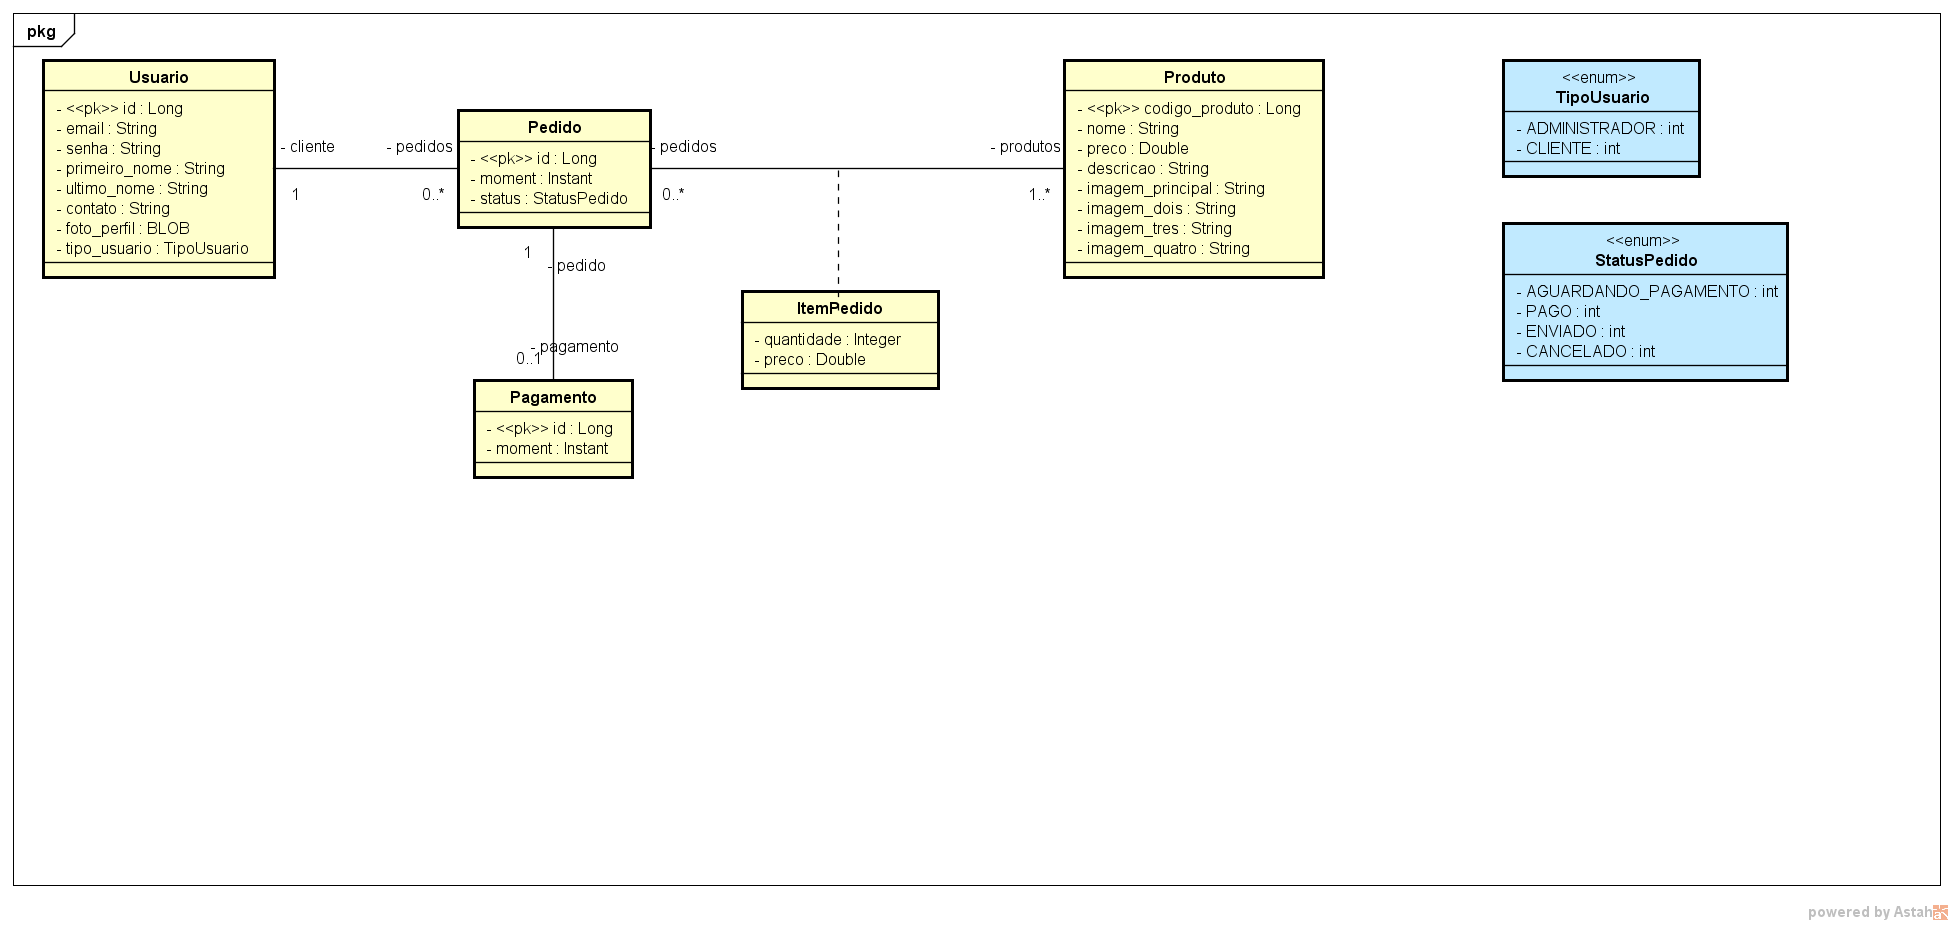
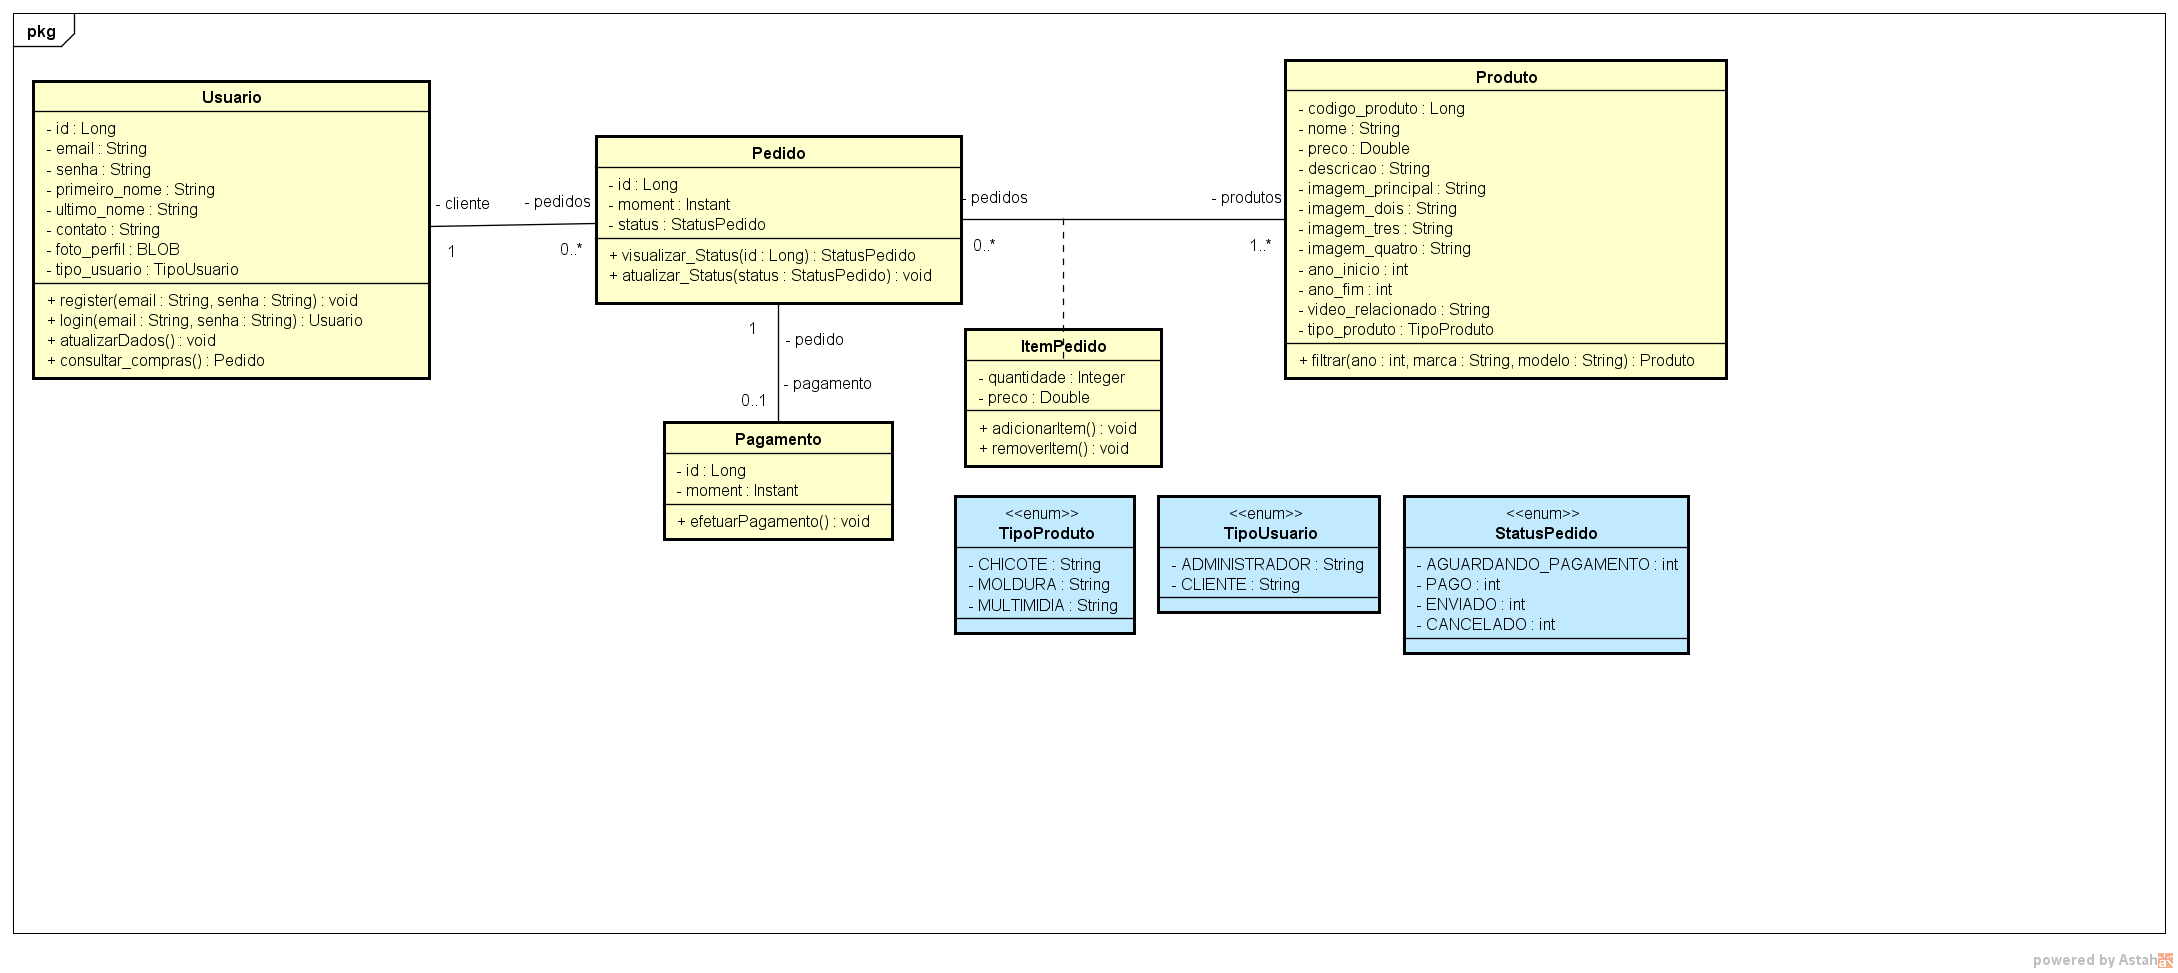
UPDATE metodos Diagrama de Classe | UPDATE tabela produtos  #49

Changed region(s): [[0.0, 0.0, 0.937, 0.6962], [0.937, 0.9686, 0.9995, 0.9989]]

diff --git a/Codigo/back-end/depinhomultimidias/src/main/java/com/depinhomultimidias/depinhomultimidias/infra/security/SecurityConfigurations.java b/Codigo/back-end/depinhomultimidias/src/main/java/com/depinhomultimidias/depinhomultimidias/infra/security/SecurityConfigurations.java
@@ -9,59 +9,42 @@ import org.springframework.security.config.annotation.authentication.configurati
 import org.springframework.security.config.annotation.web.builders.HttpSecurity;
 import org.springframework.security.config.annotation.web.configuration.EnableWebSecurity;
 import org.springframework.security.config.http.SessionCreationPolicy;
-import org.springframework.security.web.SecurityFilterChain;
-import org.springframework.security.web.authentication.UsernamePasswordAuthenticationFilter;
 import org.springframework.security.crypto.bcrypt.BCryptPasswordEncoder;
 import org.springframework.security.crypto.password.PasswordEncoder;
+import org.springframework.security.web.SecurityFilterChain;
+import org.springframework.security.web.authentication.UsernamePasswordAuthenticationFilter;
 
-
-@Configuration // Esta anotação informa ao Spring Security que esta é uma classe de configurações.
-@EnableWebSecurity // Esta anotação habilita a configuração do WebSecurity para que possamos configurar nesta classe.
+@Configuration
+@EnableWebSecurity
 public class SecurityConfigurations {
-
     @Autowired
     SecurityFilter securityFilter;
-    
-    @Bean
-    // Este método cria uma corrente de filtros para validar os usuários aptos a fazer esta requisição.
-    public SecurityFilterChain securityFilterChain(HttpSecurity httpSecurity) throws Exception{
-        
-         // Configuração para desabilitar a proteção CSRF (Cross-Site Request Forgery) para a aplicação.
-        // CSRF é um tipo de ataque onde um usuário mal-intencionado pode induzir um usuário autenticado a executar ações não intencionadas.
-        // Desabilitar CSRF é comum em APIs RESTful, onde os clientes não têm uma sessão estabelecida.
-        // Também desabilitamos CSRF porque estamos utilizando STATELESS, ou seja, não mantemos estado de sessão no servidor.
-        return httpSecurity.csrf(csrf -> csrf.disable())
-        
-        // Configuração para gerenciamento de sessão, definindo a política de criação de sessão como STATELESS.
-        // Com STATELESS, o servidor não mantém estado da sessão do usuário. Isso é útil para APIs RESTful, onde cada requisição deve ser autocontida e não dependente de estado de sessão.
-        // STATELESS é uma abordagem comum em aplicações que usam tokens JWT (JSON Web Tokens) para autenticação e autorização.
-        .sessionManagement(session -> session.sessionCreationPolicy(SessionCreationPolicy.STATELESS))
-        
 
-        .authorizeHttpRequests(authorize -> authorize
-            // A PERMICAO PARA REALIZAR GET DE USUARIO ESTA AI APENAS PARA TESTES 
-            .requestMatchers(HttpMethod.GET, "/usuario/{id}").permitAll() //TIRAR DEPOIS
-            .requestMatchers(HttpMethod.POST, "/usuario/login").permitAll()
-            .requestMatchers(HttpMethod.POST, "/usuario/register").permitAll()
-            .requestMatchers(HttpMethod.POST, "/produto").permitAll() //hasRole("ADMIN")
-            .requestMatchers(HttpMethod.PUT, "/usuario/{id}").permitAll()
-            .requestMatchers(HttpMethod.GET, "/produto/filtro").permitAll()
-            .anyRequest().authenticated()
-        )
-        
-        // Este método finaliza a configuração do filtro de segurança e constrói a corrente de filtros.
-        // O retorno do método é uma instância de SecurityFilterChain, que representa a corrente de filtros para processar requisições de segurança.
-        .addFilterBefore(securityFilter, UsernamePasswordAuthenticationFilter.class)
-        .build();
+    @Bean
+    public SecurityFilterChain securityFilterChain(HttpSecurity httpSecurity) throws Exception {
+        return  httpSecurity
+                .csrf(csrf -> csrf.disable())
+                .sessionManagement(session -> session.sessionCreationPolicy(SessionCreationPolicy.STATELESS))
+                .authorizeHttpRequests(authorize -> authorize
+                    .requestMatchers(HttpMethod.GET, "/usuario/{id}").permitAll() //TIRAR DEPOIS
+                    .requestMatchers(HttpMethod.POST, "/usuario/login").permitAll()
+                    .requestMatchers(HttpMethod.POST, "/usuario/register").permitAll()
+                    .requestMatchers(HttpMethod.POST, "/produto").hasRole("ADMIN") //hasRole("ADMIN")
+                    .requestMatchers(HttpMethod.PUT, "/usuario/{id}").authenticated()
+                    .requestMatchers(HttpMethod.GET, "/produto/filtro").permitAll()
+                    .anyRequest().authenticated()
+                )
+                .addFilterBefore(securityFilter, UsernamePasswordAuthenticationFilter.class)
+                .build();
     }
 
     @Bean
-    public AuthenticationManager authenticationManager(AuthenticationConfiguration authenticationConfiguration) throws Exception{
+    public AuthenticationManager authenticationManager(AuthenticationConfiguration authenticationConfiguration) throws Exception {
         return authenticationConfiguration.getAuthenticationManager();
     }
 
     @Bean
-    public PasswordEncoder PasswordEncoder(){
+    public PasswordEncoder passwordEncoder(){
         return new BCryptPasswordEncoder();
     }
 }

diff --git a/Codigo/back-end/depinhomultimidias/src/main/java/com/depinhomultimidias/depinhomultimidias/infra/security/TokenService.java b/Codigo/back-end/depinhomultimidias/src/main/java/com/depinhomultimidias/depinhomultimidias/infra/security/TokenService.java
@@ -17,40 +17,33 @@ import org.springframework.beans.factory.annotation.Value;
 
 @Service
 public class TokenService {
-
+    
     @Value("${api.security.token.secret}")
     private String secret;
-    
-    //Gera token de autenticação para requisicoes Http
-    public String generateToken(Usuario usuario){
 
-        try {
-            // CADA APLICACAO TEM SUA PROPRIA 'CHAVE' PARA CRIPTOGRAFIA DE TOKENS .Algorithm.HMAC256()
-            // DEFINE ESSA CHAVE E APLICA ELA
+    public String generateToken(Usuario user){
+        try{
             Algorithm algorithm = Algorithm.HMAC256(secret);
             String token = JWT.create()
-                        .withIssuer("dePinho")
-                        .withSubject(usuario.getEmail())
-                        .withExpiresAt(genExpirationDate())
-                        .sign(algorithm);
+                    .withIssuer("auth-api")
+                    .withSubject(user.getEmail())
+                    .withExpiresAt(genExpirationDate())
+                    .sign(algorithm);
             return token;
-        } catch (JWTCreationException e) {
-            throw new RuntimeException("Erro de geração de Token", e);
+        } catch (JWTCreationException exception) {
+            throw new RuntimeException("Error while generating token", exception);
         }
-        
-        
     }
 
     public String validateToken(String token){
         try {
             Algorithm algorithm = Algorithm.HMAC256(secret);
             return JWT.require(algorithm)
-                .withIssuer("dePinho")
-                .build()
-                .verify(token)
-                .getSubject();
-
-        } catch (JWTVerificationException e) {
+                    .withIssuer("auth-api")
+                    .build()
+                    .verify(token)
+                    .getSubject();
+        } catch (JWTVerificationException exception){
             return "";
         }
     }

diff --git a/Codigo/back-end/depinhomultimidias/src/main/java/com/depinhomultimidias/depinhomultimidias/infra/security/SecurityFilter.java b/Codigo/back-end/depinhomultimidias/src/main/java/com/depinhomultimidias/depinhomultimidias/infra/security/SecurityFilter.java
@@ -17,23 +17,20 @@ import jakarta.servlet.http.HttpServletRequest;
 import jakarta.servlet.http.HttpServletResponse;
 
 @Component
-public class SecurityFilter extends OncePerRequestFilter{
-    
+public class SecurityFilter extends OncePerRequestFilter {
     @Autowired
     TokenService tokenService;
-
     @Autowired
-    UsuarioRepository usuarioRepository;
+    UsuarioRepository userRepository;
 
     @Override
-    protected void doFilterInternal(HttpServletRequest request, HttpServletResponse response, FilterChain filterChain)
-            throws ServletException, IOException {
+    protected void doFilterInternal(HttpServletRequest request, HttpServletResponse response, FilterChain filterChain) throws ServletException, IOException {
         var token = this.recoverToken(request);
         if(token != null){
             var login = tokenService.validateToken(token);
-            UserDetails user = usuarioRepository.findByEmail(login);
+            UserDetails user = userRepository.findByEmail(login);
 
-            var authentication = new UsernamePasswordAuthenticationToken(user, user.getAuthorities());
+            var authentication = new UsernamePasswordAuthenticationToken(user, null, user.getAuthorities());
             SecurityContextHolder.getContext().setAuthentication(authentication);
         }
         filterChain.doFilter(request, response);
@@ -44,5 +41,4 @@ public class SecurityFilter extends OncePerRequestFilter{
         if(authHeader == null) return null;
         return authHeader.replace("Bearer ", "");
     }
-    
 }

diff --git a/Codigo/back-end/depinhomultimidias/src/main/java/com/depinhomultimidias/depinhomultimidias/services/ProdutoService.java b/Codigo/back-end/depinhomultimidias/src/main/java/com/depinhomultimidias/depinhomultimidias/services/ProdutoService.java
@@ -11,7 +11,6 @@ import com.depinhomultimidias.depinhomultimidias.repositories.ProdutoRepository;
 import com.depinhomultimidias.depinhomultimidias.specification.FilterCriteria;
 import com.depinhomultimidias.depinhomultimidias.specification.ProdutoSpecification;
 
-import jakarta.annotation.Nullable;
 import jakarta.transaction.Transactional;
 import lombok.NonNull;
 
@@ -33,9 +32,19 @@ public class ProdutoService {
     @Transactional
     public Produto update (@NonNull Produto produto) {
         Produto newProduto = findById(produto.getCodigoProduto());
-        newProduto.setNome(produto.getNome());
-        newProduto.setDescricao(produto.getDescricao());
-        newProduto.setPreco(produto.getPreco());
+        if(produto.getNome() != null){
+            newProduto.setNome(produto.getNome());
+        }
+        if(produto.getDescricao() != null){
+            newProduto.setDescricao(produto.getDescricao());
+        }
+        if(produto.getPreco() != null){
+            newProduto.setPreco(produto.getPreco());
+        }
+        if(produto.getVideo_relacionado() != null){
+            newProduto.setVideo_relacionado(produto.getVideo_relacionado());
+        }
+        
         return produtoRepository.save(newProduto);
     }
 

diff --git a/Codigo/back-end/depinhomultimidias/src/main/java/com/depinhomultimidias/depinhomultimidias/models/Produto.java b/Codigo/back-end/depinhomultimidias/src/main/java/com/depinhomultimidias/depinhomultimidias/models/Produto.java
@@ -3,6 +3,8 @@ package com.depinhomultimidias.depinhomultimidias.models;
 import java.util.ArrayList;
 import java.util.List;
 
+import com.depinhomultimidias.depinhomultimidias.enums.TipoProduto;
+
 import jakarta.annotation.Nonnull;
 import jakarta.persistence.Column;
 import jakarta.persistence.Entity;
@@ -41,7 +43,17 @@ public class Produto {
     @OneToMany(mappedBy = "produto")
     private List<ItemPedido> itens = new ArrayList<>();
 
-   
+   @Column(name = "ano_inicio")
+   private int ano_inicio;
+
+   @Column(name = "ano_fim")
+   private int ano_fim;
+
+   @Column(name = "video_relacionado")
+   private String video_relacionado;
+
+   @Column(name = "tipo_produto")
+   private TipoProduto tipo_produto;
    
 
 }

diff --git a/Codigo/back-end/depinhomultimidias/src/main/java/com/depinhomultimidias/depinhomultimidias/enums/TipoProduto.java b/Codigo/back-end/depinhomultimidias/src/main/java/com/depinhomultimidias/depinhomultimidias/enums/TipoProduto.java
@@ -1,0 +1,19 @@
+package com.depinhomultimidias.depinhomultimidias.enums;
+
+import lombok.val;
+
+public enum TipoProduto {
+    CHICOTE("chicote"),
+    MULTIMIDIA("multimidia"),
+    MOLDURA("moldura");
+
+    private String value;
+
+    TipoProduto(String value){
+        this.value = value;
+    }
+
+    public String getValue(){
+        return this.value;
+    }
+}
